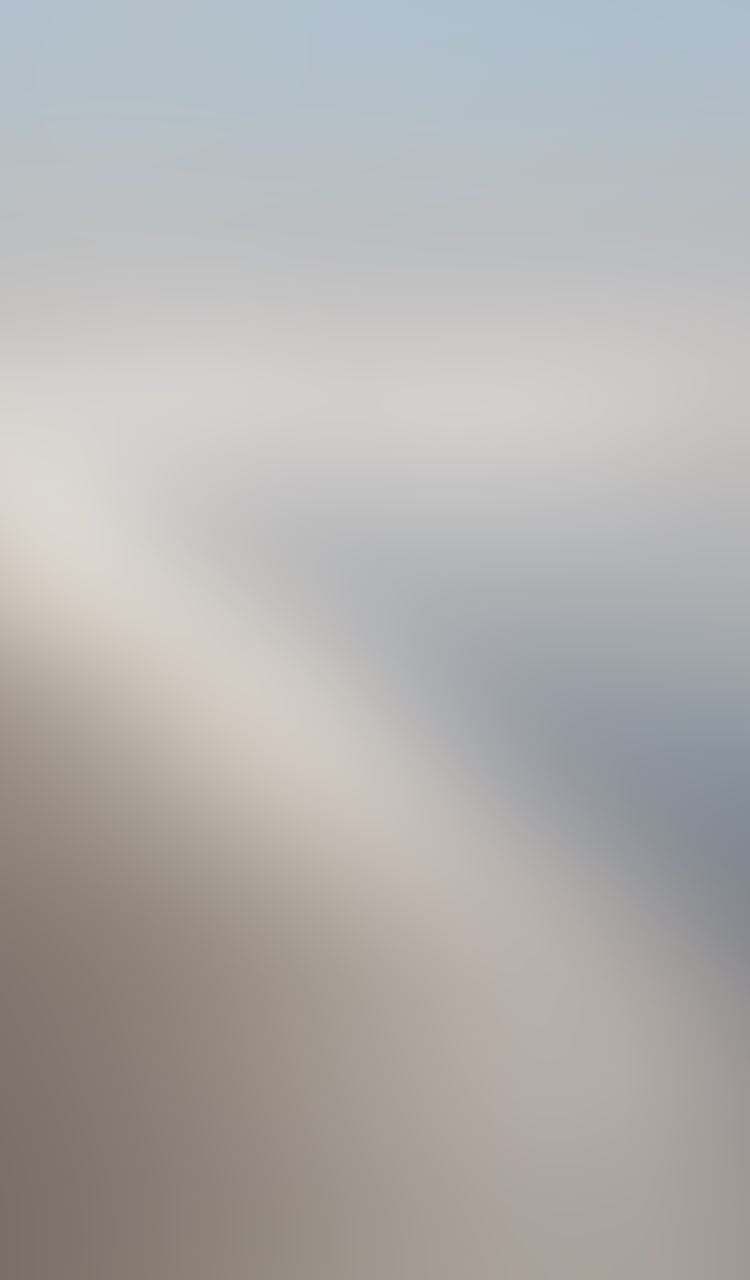
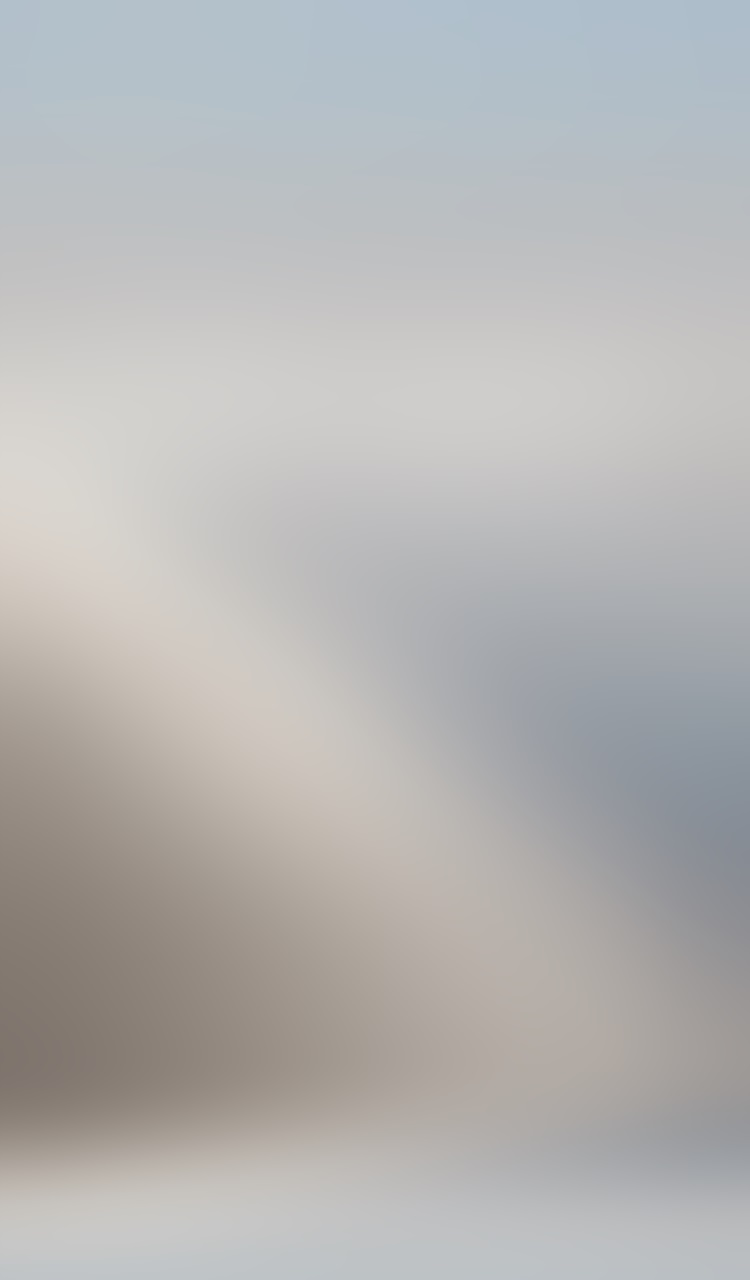
background scaling fix, minimum width

Changed region(s): [[0.0, 0.875, 1.0, 1.0]]

diff --git a/style/main.css b/style/main.css
@@ -1,5 +1,7 @@
 body {
     background-image: url("/img/bg-main-blur.jpg");
     background-size: cover;
+    background-repeat: repeat-y;
+    min-width: 300px;
     padding-top: 70px;
 }
